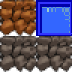
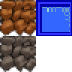
Animacion de bandera y funcion destruir barrera

Changed region(s): [[0.5, 0.5, 1.0, 1.0], [0.5833, 0.4444, 1.0, 0.4722]]

diff --git a/2DGame/02-Bubble/02-Bubble/GameObj.cpp b/2DGame/02-Bubble/02-Bubble/GameObj.cpp
@@ -12,7 +12,9 @@
 #define FALL_STEP 4
 
 
-
+enum FlagAnims {
+	IDLE, LOWER
+};
 
 
 void GameObj::init_arrow(const glm::ivec2& tileMapPos, ShaderProgram& shaderProgram)
@@ -35,15 +37,53 @@ void GameObj::init_arrow(const glm::ivec2& tileMapPos, ShaderProgram& shaderProg
 
 void GameObj::init_flag(const glm::ivec2 &tileMapPos, ShaderProgram &shaderProgram) 
 {
-	spritesheet.loadFromFile("images/flag.png", TEXTURE_PIXEL_FORMAT_RGBA);
-	sprite = Sprite::createSprite(glm::ivec2(32, 32), glm::vec2(1., 1.), &spritesheet, &shaderProgram);
+	spritesheet.loadFromFile("images/flag_sprite.png", TEXTURE_PIXEL_FORMAT_RGBA);
+	sprite = Sprite::createSprite(glm::ivec2(32, 64), glm::vec2(0.125, 1.), &spritesheet, &shaderProgram);
+
+	sprite->setNumberAnimations(2);
+
+	sprite->setAnimationSpeed(IDLE, 1);
+	sprite->addKeyframe(IDLE, glm::vec2(0.0f, .0f));
+	sprite->addKeyframe(IDLE, glm::vec2(0.625f, .0f));
+	sprite->addKeyframe(IDLE, glm::vec2(0.75f, .0f));
+	sprite->addKeyframe(IDLE, glm::vec2(0.875f, .0f));
+
+	sprite->setAnimationSpeed(LOWER, 8);
+	sprite->addKeyframe(LOWER, glm::vec2(0.0f,.0f));
+	sprite->addKeyframe(LOWER, glm::vec2(0.125f, .0f));
+	sprite->addKeyframe(LOWER, glm::vec2(0.25f, .0f));
+	sprite->addKeyframe(LOWER, glm::vec2(0.375f, .0f));
+	sprite->addKeyframe(LOWER, glm::vec2(0.5f, .0f));
+
+
+	sprite->changeAnimation(IDLE);
+
 	tileMapDispl = tileMapPos;
 }
 
 void GameObj::init_flag_reverse(const glm::ivec2& tileMapPos, ShaderProgram& shaderProgram)
 {
-	spritesheet.loadFromFile("images/flag_reverse.png", TEXTURE_PIXEL_FORMAT_RGBA);
-	sprite = Sprite::createSprite(glm::ivec2(32, 32), glm::vec2(1., 1.), &spritesheet, &shaderProgram);
+	spritesheet.loadFromFile("images/flag_sprite_reverse.png", TEXTURE_PIXEL_FORMAT_RGBA);
+	sprite = Sprite::createSprite(glm::ivec2(32, 64), glm::vec2(0.125, 1.), &spritesheet, &shaderProgram);
+
+	sprite->setNumberAnimations(2);
+
+	sprite->setAnimationSpeed(IDLE, 1);
+	sprite->addKeyframe(IDLE, glm::vec2(0.875f, .0f));
+	sprite->addKeyframe(IDLE, glm::vec2(0.25f, .0f));
+	sprite->addKeyframe(IDLE, glm::vec2(0.125f, .0f));
+	sprite->addKeyframe(IDLE, glm::vec2(0.0f, .0f));
+
+	sprite->setAnimationSpeed(LOWER, 8);
+	sprite->addKeyframe(LOWER, glm::vec2(0.875f, .0f));
+	sprite->addKeyframe(LOWER, glm::vec2(0.75f, .0f));
+	sprite->addKeyframe(LOWER, glm::vec2(0.625f, .0f));
+	sprite->addKeyframe(LOWER, glm::vec2(0.5f, .0f));
+	sprite->addKeyframe(LOWER, glm::vec2(0.375f, .0f));
+
+
+	sprite->changeAnimation(IDLE);
+
 	tileMapDispl = tileMapPos;
 }
 
@@ -105,6 +145,17 @@ void GameObj::update(int deltaTime)
 	}
 	
 	sprite->setPosition(glm::vec2(float(tileMapDispl.x + posGameObj.x), float(tileMapDispl.y + posGameObj.y)));
+}
+
+void GameObj::update_animation(int deltaTime)
+{
+	sprite->update(deltaTime);
+}
+
+void GameObj::change_animation() {
+	if(sprite->animation() == IDLE)
+		sprite->changeAnimation(LOWER);
+	else sprite->changeAnimation(IDLE);
 }
 
 void GameObj::render()

diff --git a/2DGame/02-Bubble/02-Bubble/Scene.cpp b/2DGame/02-Bubble/02-Bubble/Scene.cpp
@@ -137,7 +137,7 @@ void Scene::initGame() {
 	//flags
 	flag = new GameObj();
 	flag->init_flag(glm::ivec2(SCREEN_X, SCREEN_Y), texProgram);
-	flag->setPosition(glm::vec2(posGoals1[level-1].x + 32, posGoals1[level-1].y + 32));
+	flag->setPosition(glm::vec2(posGoals1[level-1].x + 32, posGoals1[level-1].y +2));
 
 	flag_reverse = new GameObj();
 	flag_reverse->init_flag_reverse(glm::ivec2(SCREEN_X, SCREEN_Y), texProgram);
@@ -150,6 +150,8 @@ void Scene::update(int deltaTime)
 	if (!bMenu) {
 		player->update(deltaTime);
 		player2->update(deltaTime);
+		flag->update_animation(deltaTime);
+		flag_reverse->update_animation(deltaTime);
 		if(bBox) box->update(deltaTime);
 	}
 	if (bMenu) menu->update(deltaTime);
@@ -166,6 +168,7 @@ void Scene::update(int deltaTime)
 		player->swapGodMode();
 		player2->swapGodMode();
 		prev_time = currentTime;
+		map->destroy_barrier(glm::vec2(SCREEN_X, SCREEN_Y), texProgram);
 	}
 
 }

diff --git a/2DGame/02-Bubble/02-Bubble/TileMap.h b/2DGame/02-Bubble/02-Bubble/TileMap.h
@@ -36,6 +36,8 @@ public:
 	bool collisionJumpDown(const glm::ivec2& pos, const glm::ivec2& size, int* posY, float vspeed) const;
 	bool collisionJumpUp(const glm::ivec2& pos, const glm::ivec2& size, int* posY, float vspeed) const;
 
+	void destroy_barrier(const glm::vec2& minCoords, ShaderProgram& program);
+
 private:
 	bool loadLevel(const string &levelFile);
 	void prepareArrays(const glm::vec2 &minCoords, ShaderProgram &program);

diff --git a/2DGame/02-Bubble/02-Bubble/TileMap.cpp b/2DGame/02-Bubble/02-Bubble/TileMap.cpp
@@ -276,6 +276,15 @@ bool TileMap::collisionJumpUp(const glm::ivec2& pos, const glm::ivec2& size, int
 	return false;
 }
 
+void TileMap::destroy_barrier(const glm::vec2& minCoords, ShaderProgram& program) {
+	for (int x = 0; x < mapSize.x; x++)
+		for (int y = 0; y < mapSize.y; y++)
+			if (map[y * mapSize.x + x] == 2)
+				map[y * mapSize.x + x] = 0;
+	prepareArrays(minCoords, program);
+	render();
+}
+
 
 
 

diff --git a/2DGame/02-Bubble/02-Bubble/GameObj.h b/2DGame/02-Bubble/02-Bubble/GameObj.h
@@ -13,6 +13,8 @@ public:
 	void init_flag(const glm::ivec2& tileMapPos, ShaderProgram& shaderProgram);
 	void init_flag_reverse(const glm::ivec2& tileMapPos, ShaderProgram& shaderProgram);
 	void update(int deltaTime);
+	void update_animation(int deltaTime);
+	void change_animation();
 	void render();
 
 	void setTileMap(TileMap* tileMap);
